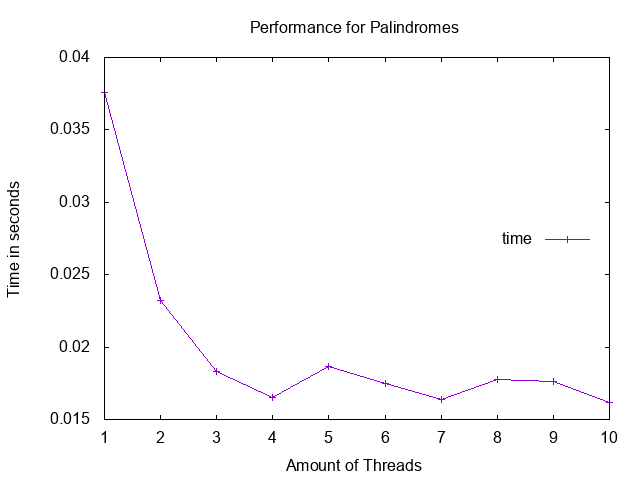
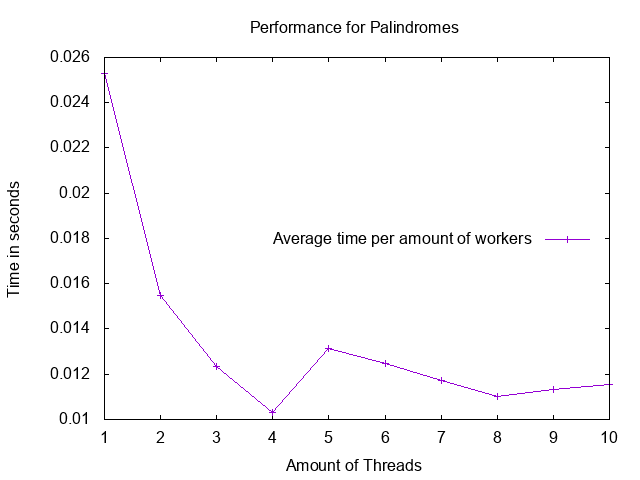
gotta go fast

diff --git a/Palindromes/palindromes.c b/Palindromes/palindromes.c
@@ -22,7 +22,9 @@ using namespace std;
 
 struct word_struct{
   int palindrome;
+  int special;
   string word;
+  string sanitized;
 };
 
 int numWorkers;
@@ -93,8 +95,8 @@ int binarySearch(string word, struct word_struct words[]){
   while(low <= high){
     index = floor((low+high)/2);
     string non_sanitized = words[index].word;
-    if(symbol(words[index].word) == TRUE){
-      currentWord = sanitize(words[index].word);
+    if(words[index].special==TRUE){
+      currentWord = words[index].sanitized;
     }
     else{
       currentWord = words[index].word;
@@ -143,6 +145,13 @@ int main(int argc, char *argv[]){
     for (int i = 0; i < WORDCOUNT-1; i++)
     {
       inFile >> words[i].word;
+      if(symbol(words[i].word)==TRUE){
+        words[i].special = TRUE;
+        words[i].sanitized = sanitize(words[i].word);
+      }
+      else{
+        words[i].special = FALSE;
+      }
     }
   inFile.close();
 
@@ -157,11 +166,11 @@ int main(int argc, char *argv[]){
   double end = read_timer();
   for(int i =0; i<numWorkers;i++){
     total = total + counter[i];
-    printf("Worker %d is done with %d counted\n", i,counter[i]);
+    //printf("Worker %d is done with %d counted\n", i,counter[i]);
 
   }
 
-  printf("TOTAL: %d\n", total);
+//  printf("TOTAL: %d\n", total);
 
   //printf("PALINDROMES:\n");
   total = 0;

diff --git a/Palindromes/performanceAnalyser.c b/Palindromes/performanceAnalyser.c
@@ -12,7 +12,7 @@
 #include <cstdio>
 #include <cctype>
 #include <cmath>
-#define SAMPLESIZE 10
+#define SAMPLESIZE 100
 #define SAMPLES 10
 
 using namespace std;
